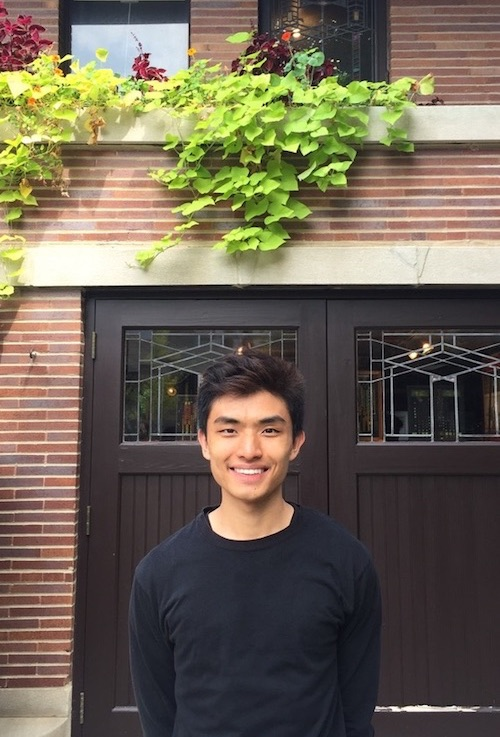
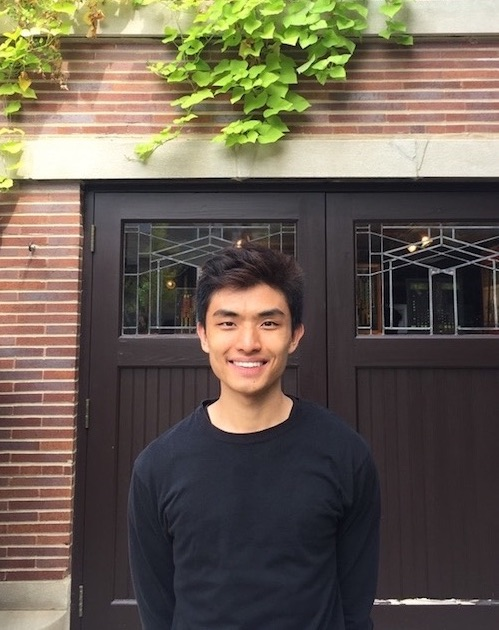
still messing with home page

diff --git a/index.html b/index.html
@@ -34,7 +34,9 @@ Powered by Hydejack v6.6.1 <https://qwtel.com/hydejack/>
 <!-- HERE IS THE PAGE'S CORE CONTENT -->
 <h1 class="page-title hr" style="padding-bottom:1rem">Home</h1><p>Hi! I work as a research assistant to Prof. Michael Greenstone at the <a href="https://epic.uchicago.edu/">Energy Policy Institute at the University of Chicago (EPIC)</a>.
 <p> 
-<img src="assets/img/headshot_vcropped.jpg" alt="Henry Zhang">
+<div style="position:relative;padding-top:120%;">
+	<img src="assets/img/headshot_vcropped.jpg" alt="Henry Zhang">
+</div>
 </main></div>
 
 <!-- HERE IS THE SIDEBAR -->
